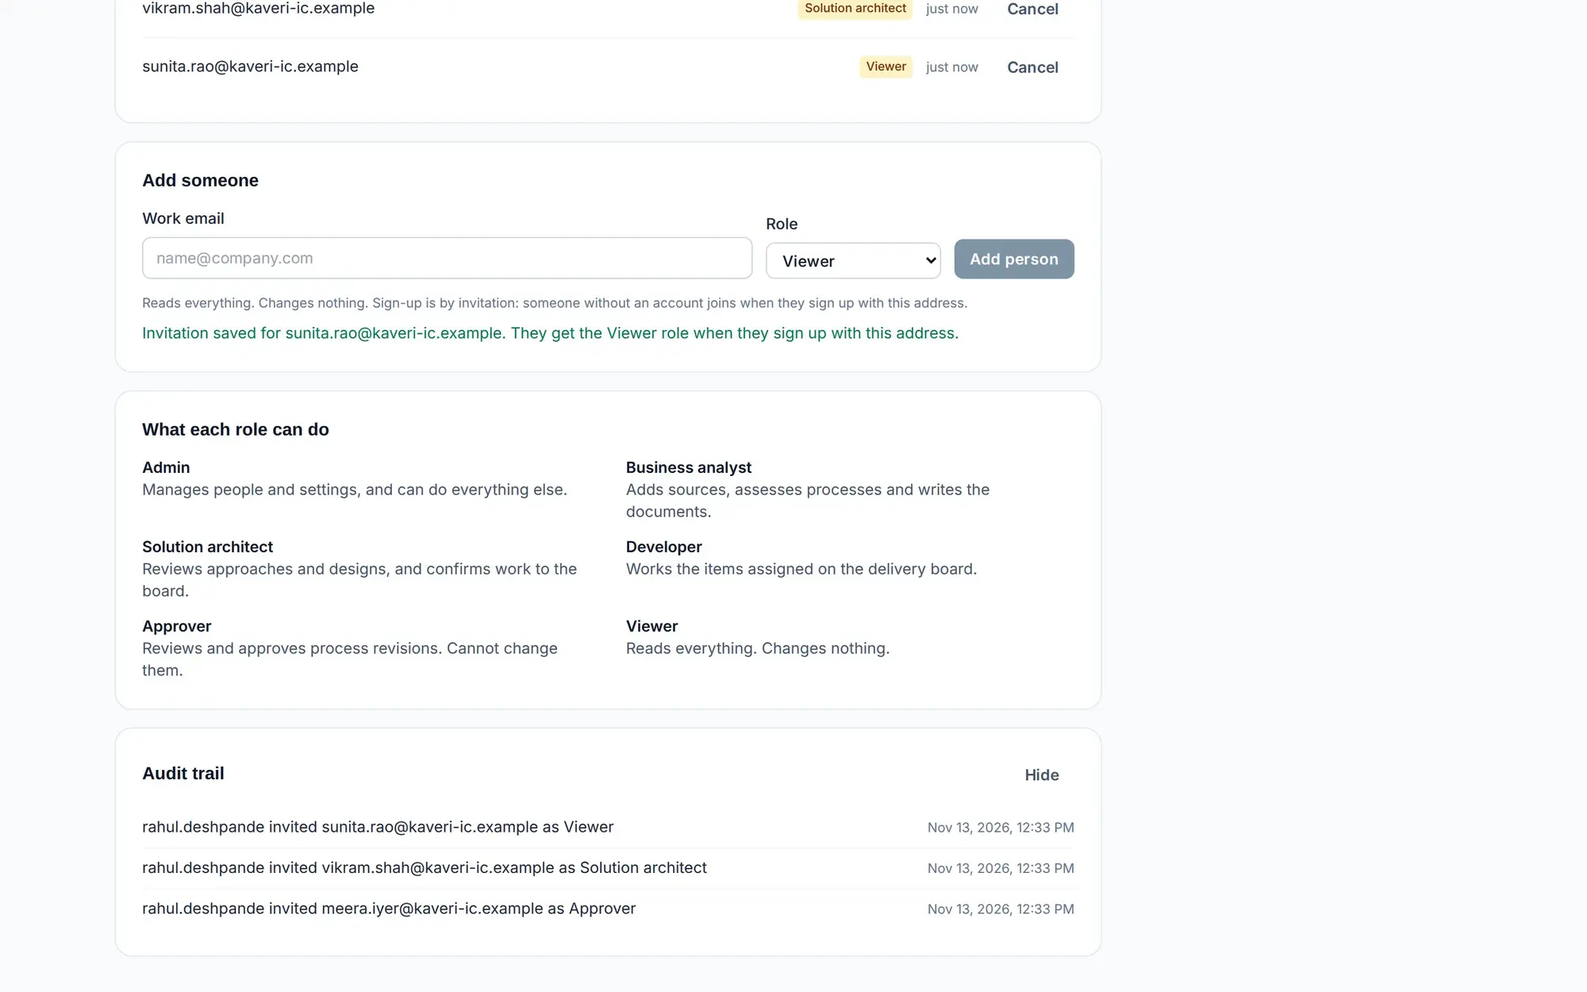
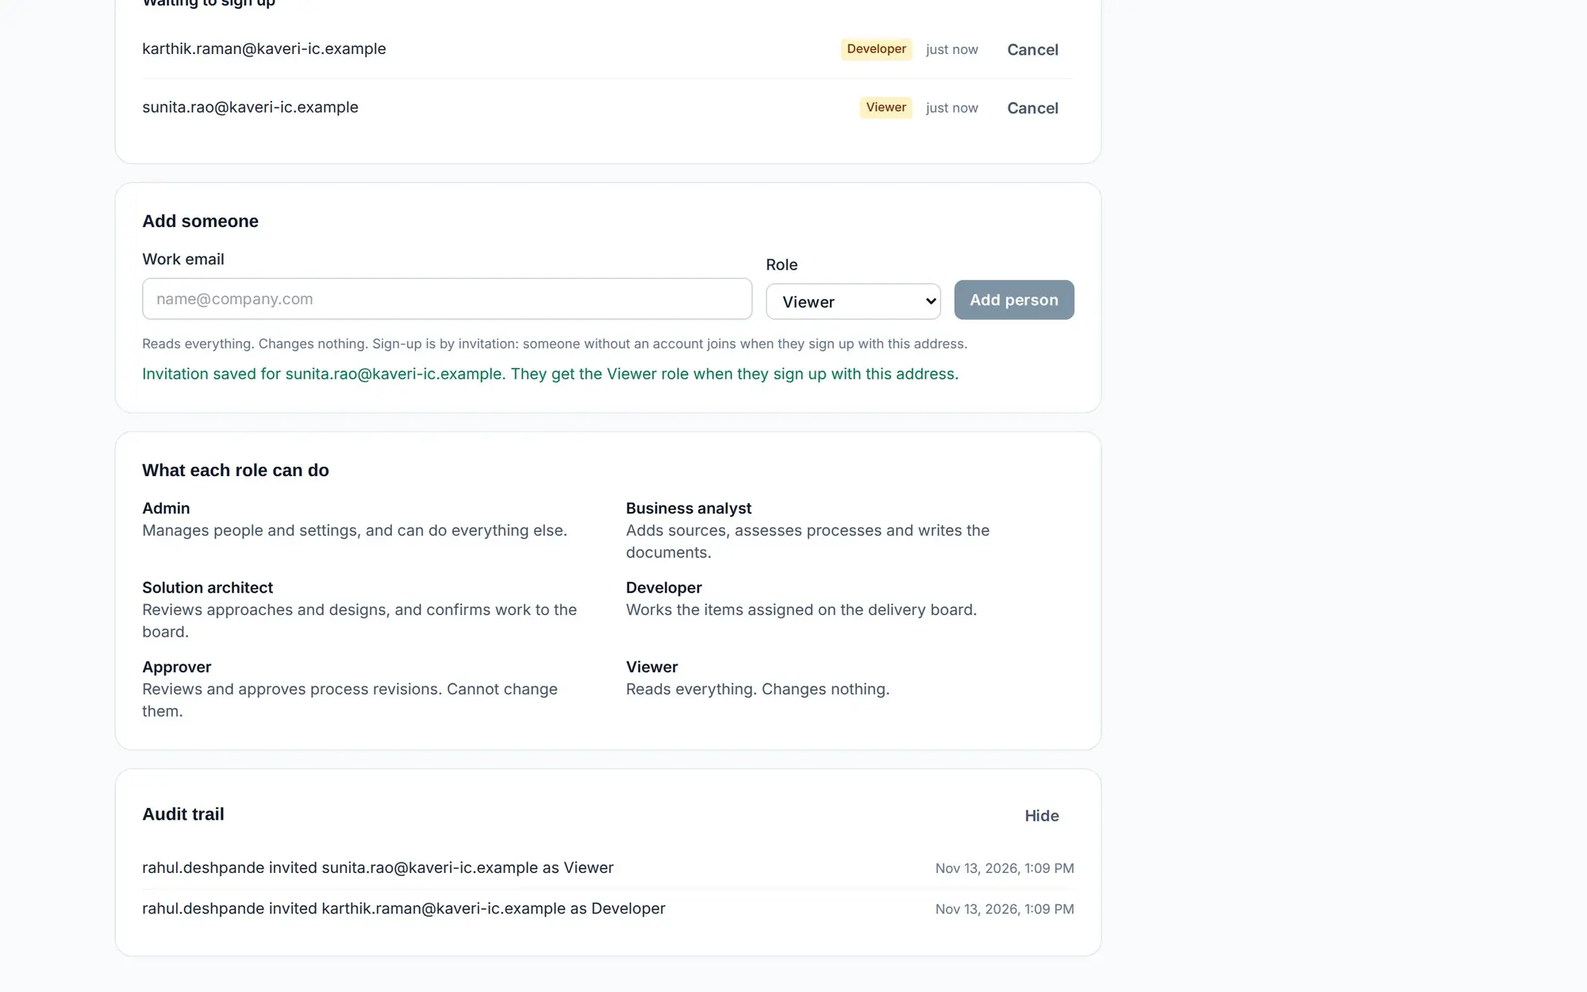
Homepage v3: RPA-led sample, 'AI is not the answer to every step', colour through the page (#73)
* Tour sample: inputs entered in the product, people named on the process

Claude-Session: https://claude.ai/code/session_018NA3sBSiqpThqSWp6aYWFK

* Tour capture: wait for saves without assuming a save happened

Claude-Session: https://claude.ai/code/session_018NA3sBSiqpThqSWp6aYWFK

* Homepage v3: RPA-led sample, 'AI is not the answer to every step', colour through the page

Claude-Session: https://claude.ai/code/session_018NA3sBSiqpThqSWp6aYWFK

* Homepage: the step-split screen at full width

Claude-Session: https://claude.ai/code/session_018NA3sBSiqpThqSWp6aYWFK

---------

diff --git a/journey/home/HomePage.tsx b/journey/home/HomePage.tsx
@@ -18,7 +18,7 @@ const TOUR: { id: string; name: string; line: string; caption: string; shots: [S
     caption: 'Five source files go in. Every approach is scored step by step from fixed tables, and the best fit is named with its reasons.',
     shots: [
       { src: 'sources', origin: '30% 75%', alt: 'The Sources screen: three meeting transcripts, a procedure and a flowchart uploaded, with the passages read from each' },
-      { src: 'assessment', origin: '30% 55%', alt: 'The Assessment screen: API-led integration recommended, with the approaches ranked by score and the reasons beside each' },
+      { src: 'assessment', origin: '30% 55%', alt: 'The Assessment screen: RPA-led automation recommended, 1 step of 20 needs AI, with the approaches ranked by score' },
     ],
   },
   {
@@ -26,7 +26,7 @@ const TOUR: { id: string; name: string; line: string; caption: string; shots: [S
     caption: 'Each step shows the sources it came from. What the sources did not say stays “Not provided” and becomes a question for a person.',
     shots: [
       { src: 'process', origin: '85% 35%', alt: 'The Process screen: 21 steps with who does them, the systems used and how many sources support each, plus 15 open questions' },
-      { src: 'document-2', origin: '45% 55%', alt: 'A generated document where two facts the sources did not give are marked Not provided' },
+      { src: 'document-2', origin: '50% 12%', alt: 'A generated document where access nobody has confirmed is marked Not provided or reported, not confirmed' },
     ],
   },
   {
@@ -41,7 +41,7 @@ const TOUR: { id: string; name: string; line: string; caption: string; shots: [S
     id: 'launch', name: 'Launch', line: 'Work items onto the Delivery board',
     caption: 'Epics, stories and tasks are proposed with acceptance criteria and requirement links. A person chooses what goes to the board.',
     shots: [
-      { src: 'work-items', origin: '35% 60%', alt: 'The Work items screen: 6 epics, 15 stories and 23 tasks proposed, each linked to its requirements' },
+      { src: 'work-items', origin: '35% 60%', alt: 'The Work items screen: 7 epics, 18 stories and 21 tasks proposed, each linked to its requirements' },
       { src: 'board', origin: '25% 40%', alt: 'The Delivery board part-way through delivery: work items in six status columns, grouped by epic' },
     ],
   },
@@ -126,17 +126,17 @@ function Tour() {
   return (
     <div ref={ref} data-paused={!playing} className="mt-10 grid gap-8 lg:grid-cols-[18rem_minmax(0,1fr)] lg:gap-12">
       <div>
-        <div className="mb-6 hidden lg:block"><Mark lit={stage} size={112} /></div>
+        <div className="mb-6 hidden lg:block"><Mark lit={stage} size={112} dark /></div>
         <ol aria-label="The five stages" className="grid grid-cols-5 gap-1 lg:block lg:space-y-1">
           {TOUR.map((s, i) => {
             const here = i === stage;
             return (
               <li key={s.id}>
                 <button type="button" aria-current={here ? 'step' : undefined} onClick={() => setStage(i)}
-                  className={`w-full rounded-lg px-2 py-2 text-center transition-colors lg:px-3 lg:py-2.5 lg:text-left ${focus} focus-visible:outline-[#002C4B] ${here ? 'bg-white shadow-sm ring-1 ring-slate-200' : 'hover:bg-white/70'}`}>
-                  <span className={`block font-display text-xs font-semibold sm:text-sm lg:text-lg ${here ? 'text-[#002C4B]' : 'text-slate-600'}`}>{s.name}</span>
-                  <span className="hidden text-sm text-slate-600 lg:block">{s.line}</span>
-                  <span className={`mt-2 block h-1 overflow-hidden rounded-full ${here ? 'bg-slate-200' : 'bg-transparent'}`} aria-hidden="true">
+                  className={`w-full rounded-lg px-2 py-2 text-center transition-colors lg:px-3 lg:py-2.5 lg:text-left ${focus} focus-visible:outline-white ${here ? 'bg-white/10 ring-1 ring-white/25' : 'hover:bg-white/5'}`}>
+                  <span className={`block font-display text-xs font-semibold sm:text-sm lg:text-lg ${here ? 'text-white' : 'text-slate-300'}`}>{s.name}</span>
+                  <span className="hidden text-sm text-slate-300 lg:block">{s.line}</span>
+                  <span className={`mt-2 block h-1 overflow-hidden rounded-full ${here ? 'bg-white/20' : 'bg-transparent'}`} aria-hidden="true">
                     {here && <span key={stage} className="tour-fill block h-full rounded-full" style={{ background: AMBER }} onAnimationEnd={() => setStage(n => (n + 1) % TOUR.length)} />}
                   </span>
                 </button>
@@ -154,8 +154,8 @@ function Tour() {
             </div>
           </div>
           <div className="mt-5 flex flex-wrap items-start justify-between gap-4">
-            <p className="max-w-2xl text-lg leading-7 text-slate-800">{cur.caption}</p>
-            <button type="button" onClick={() => setPlaying(p => !p)} className={`shrink-0 rounded-lg border border-slate-300 bg-white px-3 py-1.5 text-sm font-semibold text-slate-700 hover:bg-slate-50 motion-reduce:hidden ${focus} focus-visible:outline-[#002C4B]`}>
+            <p className="max-w-2xl text-lg leading-7 text-slate-100">{cur.caption}</p>
+            <button type="button" onClick={() => setPlaying(p => !p)} className={`shrink-0 rounded-lg border border-white/30 px-3 py-1.5 text-sm font-semibold text-white hover:bg-white/10 motion-reduce:hidden ${focus} focus-visible:outline-white`}>
               {playing ? 'Pause the tour' : 'Play the tour'}
             </button>
           </div>
@@ -168,22 +168,30 @@ function Tour() {
 const REASONS = [
   {
     title: 'The score is arithmetic, not an opinion',
-    text: 'Every step gets a score out of 100 for each approach, worked out from fixed tables you can read. The same facts always give the same ranking. AI reads your sources, but it does not decide, and where rules are enough the answer is “AI unnecessary”.',
-    img: 'reason-score', w: 1700, h: 907,
-    alt: 'The step-by-step table: each step with its recommended approach, score, next best approach and whether AI is needed',
+    text: 'Every step gets a score out of 100 for each approach, worked out from fixed tables you can read. The same facts always give the same ranking. AI helps read your sources, but it does not decide, and where rules are enough the answer is “AI unnecessary”.',
+    img: 'reason-score', w: 1700, h: 907, tint: 'bg-sky-100',
+    alt: 'The step-by-step table: one step marked AI needed, the others AI unnecessary, each with its score and reasons',
   },
   {
     title: 'Nothing is invented',
-    text: 'A fact the sources did not give is never filled in. It shows as “Not provided”, becomes an open question with a likely owner, and is listed again at the end of each document, so a gap cannot hide in a confident paragraph.',
-    img: 'reason-facts', w: 1700, h: 1143,
-    alt: 'A process overview table in a generated document, with two missing facts marked Not provided and one marked Inferred',
+    text: 'A fact the sources did not give is never filled in. It shows as “Not provided”, or as reported but not confirmed, becomes an open question with a likely owner, and is listed again at the end of each document, so a gap cannot hide in a confident paragraph.',
+    img: 'reason-facts', w: 1700, h: 1172, tint: 'bg-amber-100',
+    alt: 'Part of a generated document: one access marked Not provided, one reported but not confirmed, and a figure marked Inferred',
   },
   {
     title: 'A named person signs off',
     text: 'Each process names its analyst, architect and approver. Only an approver can approve a revision, an approved revision is never changed, and who invited, changed and approved what is kept in the audit trail.',
-    img: 'reason-people', w: 1700, h: 982,
+    img: 'reason-people', w: 1700, h: 963, tint: 'bg-emerald-100',
     alt: 'The list of what each of the six roles can do, above the audit trail',
   },
+];
+
+const APPROACHES: [string, string][] = [
+  ['Rule-based RPA', 'bg-sky-50 text-sky-900 ring-sky-200'],
+  ['API integration', 'bg-emerald-50 text-emerald-900 ring-emerald-200'],
+  ['AI-assisted', 'bg-violet-50 text-violet-900 ring-violet-200'],
+  ['Agent', 'bg-fuchsia-50 text-fuchsia-900 ring-fuchsia-200'],
+  ['A person', 'bg-slate-100 text-slate-800 ring-slate-200'],
 ];
 
 const OUTPUTS = [
@@ -216,8 +224,9 @@ export default function HomePage() {
 
         <section className="mx-auto grid max-w-7xl items-center gap-12 px-6 pb-20 pt-10 lg:grid-cols-[minmax(0,30rem)_minmax(0,1fr)] lg:pb-28 lg:pt-16">
           <div>
-            <h1 className="font-display text-5xl font-semibold leading-[1.03] tracking-tight sm:text-6xl xl:text-7xl">Evaluate before you automate.</h1>
-            <p className="mt-6 text-lg leading-8 text-slate-200">AvalaOS reads a process from your transcripts, procedures and flowcharts, scores how to automate each step, writes the documents to build it and puts the work on a delivery board. People confirm the facts and approve the result, and every change is on record.</p>
+            <h1 className="font-display text-5xl font-semibold leading-[1.03] tracking-tight sm:text-6xl xl:text-7xl"><span className="text-[#F2B21E]">Evaluate</span> before you automate.</h1>
+            <p className="mt-6 text-xl leading-8 text-white">Not every process needs AI.</p>
+            <p className="mt-2 text-lg leading-8 text-slate-300">AvalaOS scores each step for RPA, API, AI or a person, and shows its reasons.</p>
             <div className="mt-9 flex flex-wrap items-center gap-3">
               <a href={go.href} className={cta}>{go.label}</a>
               <a href="#tour" className={`rounded-lg px-4 py-3 text-sm font-semibold text-white hover:bg-white/10 ${focus} focus-visible:outline-white`}>Watch the 30-second tour</a>
@@ -226,7 +235,7 @@ export default function HomePage() {
           </div>
           <div className="lg:-mr-56 xl:-mr-40">
             <div className="shot-frame">
-              <img src={shot('assessment')} width={2000} height={1250} className="block h-auto w-[170%] max-w-none sm:w-full" alt="The AvalaOS assessment of a vendor invoice process: API-led integration recommended, 70% of steps fit automation, approaches ranked by score" />
+              <img src={shot('assessment')} width={2000} height={1250} className="block h-auto w-[170%] max-w-none sm:w-full" alt="The AvalaOS assessment of a vendor invoice process: RPA-led automation recommended, 80% of steps fit automation, 1 step of 20 needs AI" />
             </div>
           </div>
         </section>
@@ -237,10 +246,28 @@ export default function HomePage() {
       </p>
 
       <main>
-        <section id="tour" aria-labelledby="tour-h" className="scroll-mt-6 bg-slate-50">
+        <section aria-labelledby="motto-h">
           <div className="mx-auto max-w-7xl px-6 py-20">
-            <h2 id="tour-h" className="max-w-3xl font-display text-4xl font-semibold tracking-tight text-[#002C4B] sm:text-5xl">From five files to a delivery board</h2>
-            <p className="mt-4 max-w-2xl text-lg text-slate-700">Avala is the five stages every process passes through. Watch the sample case go through them, or pick a stage.</p>
+            <div className="grid gap-8 lg:grid-cols-2 lg:gap-16">
+              <h2 id="motto-h" className="font-display text-4xl font-semibold tracking-tight text-[#002C4B] sm:text-5xl">AI is not the answer to every step</h2>
+              <div>
+                <p className="text-lg leading-8 text-slate-700">Most of a process is rules, screens and hand-offs. AvalaOS puts every approach on one scale and recommends AI or an agent only where the work needs it.</p>
+                <ul aria-label="The approaches every step is scored for" className="mt-5 flex flex-wrap gap-2 text-sm font-semibold">
+                  {APPROACHES.map(([name, cls]) => <li key={name} className={`rounded-full px-3 py-1.5 ring-1 ring-inset ${cls}`}>{name}</li>)}
+                </ul>
+              </div>
+            </div>
+            <div className="mt-12 rounded-3xl bg-amber-100 p-4 sm:p-10">
+              <div className="shot-frame"><img src={shot('motto-split')} width={1800} height={563} loading="lazy" className="block h-auto w-[170%] max-w-none sm:w-full" alt="How the 20 steps of the sample split: 15 rule-based RPA, 1 AI-assisted, 4 stay with people, with the reasons for each" /></div>
+            </div>
+            <p className="mt-8 max-w-3xl border-l-4 border-[#E69F00] pl-4 text-xl font-semibold leading-8 text-slate-900">In the sample, rules do the work for 15 of 20 steps. One needs AI. Four stay with people.</p>
+          </div>
+        </section>
+
+        <section id="tour" aria-labelledby="tour-h" className="scroll-mt-6 bg-[#002C4B] text-white">
+          <div className="mx-auto max-w-7xl px-6 py-20">
+            <h2 id="tour-h" className="max-w-3xl font-display text-4xl font-semibold tracking-tight sm:text-5xl">From five files to a delivery board</h2>
+            <p className="mt-4 max-w-2xl text-lg text-slate-200">Avala is the five stages every process passes through. Watch the sample case go through them, or pick a stage.</p>
             <Tour />
           </div>
         </section>
@@ -255,21 +282,21 @@ export default function HomePage() {
                     <h3 className="font-display text-3xl font-semibold tracking-tight text-slate-900">{r.title}</h3>
                     <p className="mt-4 max-w-xl text-lg leading-8 text-slate-700">{r.text}</p>
                   </div>
-                  <div className="shot-frame lg:col-span-3"><img src={shot(r.img)} width={r.w} height={r.h} loading="lazy" className="block h-auto w-[160%] max-w-none sm:w-full" alt={r.alt} /></div>
+                  <div className={`rounded-3xl p-4 sm:p-8 lg:col-span-3 ${r.tint}`}><div className="shot-frame"><img src={shot(r.img)} width={r.w} height={r.h} loading="lazy" className="block h-auto w-[160%] max-w-none sm:w-full" alt={r.alt} /></div></div>
                 </div>
               ))}
             </div>
           </div>
         </section>
 
-        <section aria-labelledby="out-h" className="border-t border-slate-200 bg-slate-50">
+        <section aria-labelledby="out-h" className="bg-[#FFF3D1]">
           <div className="mx-auto grid max-w-7xl gap-10 px-6 py-20 lg:grid-cols-[20rem_minmax(0,1fr)]">
-            <h2 id="out-h" className="font-display text-4xl font-semibold tracking-tight text-[#002C4B]">What comes out</h2>
-            <dl className="divide-y divide-slate-200 border-y border-slate-200">
+            <h2 id="out-h" className="font-display text-4xl font-semibold tracking-tight text-[#002C4B] sm:text-5xl">What comes out</h2>
+            <dl className="divide-y divide-[#002C4B]/15 border-y border-[#002C4B]/15">
               {OUTPUTS.map(([t, x]) => (
                 <div key={t} className="grid gap-1 py-5 sm:grid-cols-[14rem_minmax(0,1fr)] sm:gap-8">
-                  <dt className="font-display text-lg font-semibold text-slate-900">{t}</dt>
-                  <dd className="text-slate-700">{x}</dd>
+                  <dt className="font-display text-xl font-semibold text-[#002C4B]">{t}</dt>
+                  <dd className="text-lg text-slate-800">{x}</dd>
                 </div>
               ))}
             </dl>

diff --git a/tests/e2e/tour.spec.ts b/tests/e2e/tour.spec.ts
@@ -50,17 +50,69 @@ test('tour: the sample case through every stage', async ({ page }) => {
     const state = JSON.parse(localStorage.getItem(KEY)!);
     state.revisions.find((r: { state: string }) => r.state === 'working').model = gold;
     for (const s of state.sources) for (const [key, file] of Object.entries(keys)) if (s.fileName === file) s.key = key;
+    // The team of the sample company, and who is named on this process.
+    const ws = state.workspaces[0].id, since = new Date().toISOString();
+    const member = (name: string, role: string, job: string | null, canApprove: boolean) => ({ userId: crypto.randomUUID(), name, email: `${name.toLowerCase().replace(' ', '.')}@kaveri-ic.example`, role, job, canApprove, since });
+    const meera = member('Meera Iyer', 'viewer', 'approver', true), vikram = member('Vikram Shah', 'editor', 'solution_architect', false);
+    state.people = { [ws]: { members: [{ ...member('Rahul Deshpande', 'admin', null, true), userId: state.me.id }, meera, vikram], invites: [], audit: [] } };
+    Object.assign(state.processes[0], { analystId: state.me.id, architectId: vikram.userId, approverId: meera.userId });
     localStorage.setItem(KEY, JSON.stringify(state));
   }, { gold, keys });
   await page.reload();
+
+  // Facts for the sample that only its people could give, entered in the product's own Inputs view:
+  // SAP is worked through its screens here (no API for this work, robots allowed), the rules are
+  // written down, and only reading the incoming invoices is not rule-based work.
+  await stage(page, 'Assessment');
+  await page.getByRole('tab', { name: /^Inputs/ }).click();
+  const saved = async () => { await page.waitForTimeout(200); await expect(page.getByTestId('save-state')).not.toContainText('Saving'); };
+  const choose = async (label: string, option: string) => {
+    await page.getByLabel(label, { exact: true }).selectOption({ label: option });
+    await saved();
+  };
+  const type = async (label: string, value: string) => {
+    const box = page.getByLabel(label, { exact: true });
+    await box.fill(value);
+    await box.blur();
+    await saved();
+  };
+  await choose('Volume period', 'per month');
+  await type('Volume', '9500');
+  await type('Handling time', '11');
+  await type('People', '8');
+  await choose('Process change expected', 'No change expected');
+  await choose('Application change expected', 'No change expected');
+  await choose('API of SAP S/4HANA', 'No API');
+  await choose('Robots allowed on the screens of SAP S/4HANA', 'Yes');
+  await choose('Screens of SAP S/4HANA stable', 'Yes');
+  await choose('SAP S/4HANA through a remote desktop', 'No');
+  const whole = (title: string) => `${title} for the process as a whole`;
+  await choose(whole('Rules stated in full and stable'), 'Yes');
+  await choose(whole('Form of the input'), 'Structured');
+  await choose(whole('Needs a judgment or accountable decision'), 'No');
+  await choose(whole('Needs a physical action'), 'No');
+  await choose(whole('Drafts, summarises or classifies free text'), 'No');
+  await choose(whole('What it changes'), 'A record');
+  await choose('Form of the input for Log invoice', 'Documents');
+  await choose('Form of the input for Scan paper invoice', 'Paper');
+  await choose('Needs a physical action for Scan paper invoice', 'Yes');
+  for (const step of ['Approve non-PO invoice', 'Review high-value invoice', 'Investigate variance']) await choose(`Needs a judgment or accountable decision for ${step}`, 'Yes');
+  await settle(page);
+  await snap(page, 'inputs');
+
+  await stage(page, 'Process');
   await page.getByRole('tab', { name: /^Steps/ }).click();
   await settle(page);
   await snap(page, 'process');
 
   await stage(page, 'Assessment');
   await expect(page.getByTestId('verdict')).toBeVisible();
+  console.log(`TOUR_VERDICT ${await page.getByTestId('verdict').innerText()} | ${(await page.locator('section[aria-label="Recommended approach"]').innerText()).replace(/\s+/g, ' ')}`);
   await settle(page);
   await snap(page, 'assessment');
+  await page.locator('[data-testid="step-split"]').evaluate(el => el.scrollIntoView({ block: 'center' }));
+  await settle(page);
+  await snap(page, 'assessment-why');
   for (const [label, name] of [['Priority', 'assessment-priority'], ['Benefit', 'assessment-benefit'], ['Steps', 'assessment-steps']] as const) {
     await page.locator(`section[aria-label="${label}"]`).evaluate(el => el.scrollIntoView({ block: 'start' }));
     await page.mouse.wheel(0, -24);
@@ -136,7 +188,7 @@ test('tour: the sample case through every stage', async ({ page }) => {
   await page.goto('/processes');
   await page.getByRole('tab', { name: 'People' }).click();
   const people = page.getByTestId('people');
-  for (const [email, role] of [['meera.iyer@kaveri-ic.example', 'Approver'], ['vikram.shah@kaveri-ic.example', 'Solution architect'], ['sunita.rao@kaveri-ic.example', 'Viewer']] as const) {
+  for (const [email, role] of [['karthik.raman@kaveri-ic.example', 'Developer'], ['sunita.rao@kaveri-ic.example', 'Viewer']] as const) {
     await people.getByLabel('Work email').fill(email);
     await people.getByLabel('Role for the new person').selectOption({ label: role });
     await people.getByRole('button', { name: 'Add person' }).click();

diff --git a/tests/e2e/home.spec.ts b/tests/e2e/home.spec.ts
@@ -14,6 +14,10 @@ test('homepage: the five stages can be picked and the tour paused', async ({ pag
   await expect(hero).toBeVisible();
   expect(await hero.evaluate((img: HTMLImageElement) => img.complete && img.naturalWidth > 0)).toBe(true);
 
+  // The message that AI is not needed everywhere, with the approaches every step is scored for.
+  await expect(page.getByRole('heading', { name: 'AI is not the answer to every step' })).toBeVisible();
+  await expect(page.getByRole('list', { name: 'The approaches every step is scored for' }).getByRole('listitem')).toHaveCount(5);
+
   const stages = page.getByRole('list', { name: 'The five stages' }).getByRole('button');
   await expect(stages).toHaveCount(5);
   await expect(stages.first()).toHaveAttribute('aria-current', 'step');

diff --git a/AGENTS.md b/AGENTS.md
@@ -149,6 +149,6 @@ The mark is an A in five layers, one for each stage of the name (Assess, Validat
 
 `/` is the public homepage (`journey/home/HomePage.tsx`), loaded without the application or the database client; every other unknown path still goes to My work. A signed-in visitor (a Supabase session key in local storage) sees "Open my work" instead of "Sign in".
 
-Every screen on it is the product itself, not a mock-up. `tests/e2e/tour.spec.ts` runs the sample case (`eval/corpus/ap-invoice`, a made-up company; its hand-checked model stands in for extraction, which needs the server) through every stage and captures the screens; CI prints them in the browser job log on `claude/` branches. To refresh the tour after the product's look changes, take the `tour-*.jpg` screens from that log and convert them into `public/marketing/tour/*.webp` (2000 px wide; the three `reason-*` images are crops). Keep the claims on the page to what the product does, and keep the line that says the screens are a sample case.
+Every screen on it is the product itself, not a mock-up. `tests/e2e/tour.spec.ts` runs the sample case (`eval/corpus/ap-invoice`, a made-up company; its hand-checked model stands in for extraction, which needs the server) through every stage and captures the screens; CI prints them in the browser job log on `claude/` branches. The sample's facts that only its people could give (SAP worked through its screens, rules written down, only invoice reading needs AI) are entered by that test in the product's own Inputs view, and its team is named on the process; the result the page quotes (RPA-led, 15 of 20 steps by rules, 1 needs AI, 4 stay with people) is what the product then computes, so update the page's wording if the sample or the scoring tables change. To refresh the tour after the product's look changes, take the `tour-*.jpg` screens from that log and convert them into `public/marketing/tour/*.webp` (2000 px wide; the three `reason-*` images are crops). Keep the claims on the page to what the product does, and keep the line that says the screens are a sample case.
 
 The tour runs five stages of six seconds (about 30 seconds), two screens each with a slow zoom. A stage's progress bar is a CSS animation whose end advances the stage, so pausing the animation pauses the timing. With reduced motion nothing runs on its own and both screens of a stage are shown one under the other. Test: `tests/e2e/home.spec.ts`.
